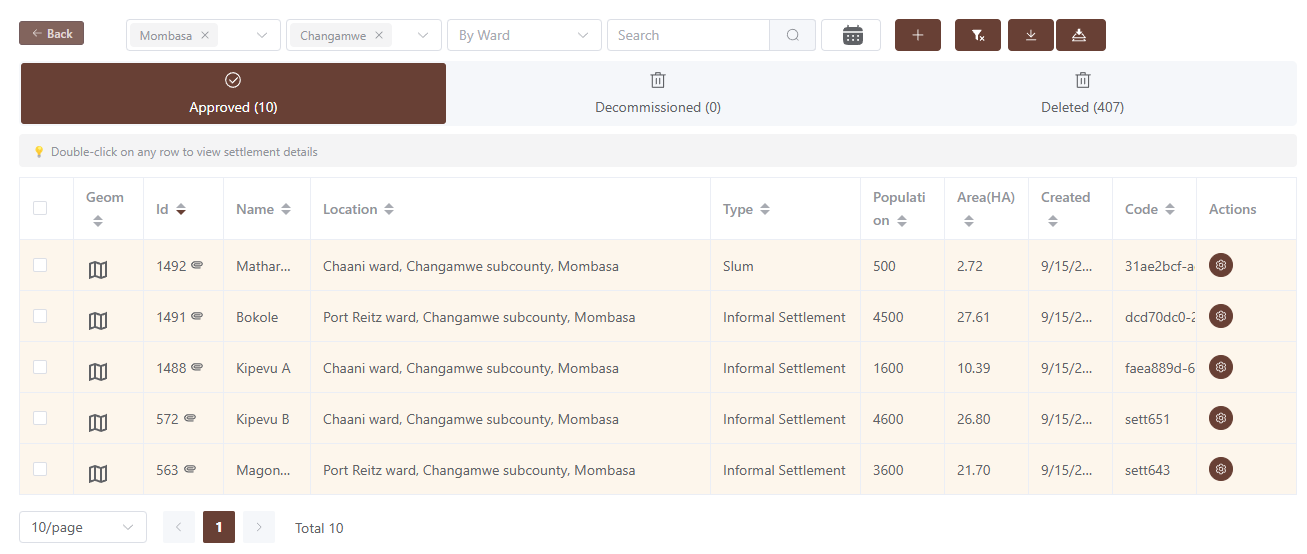
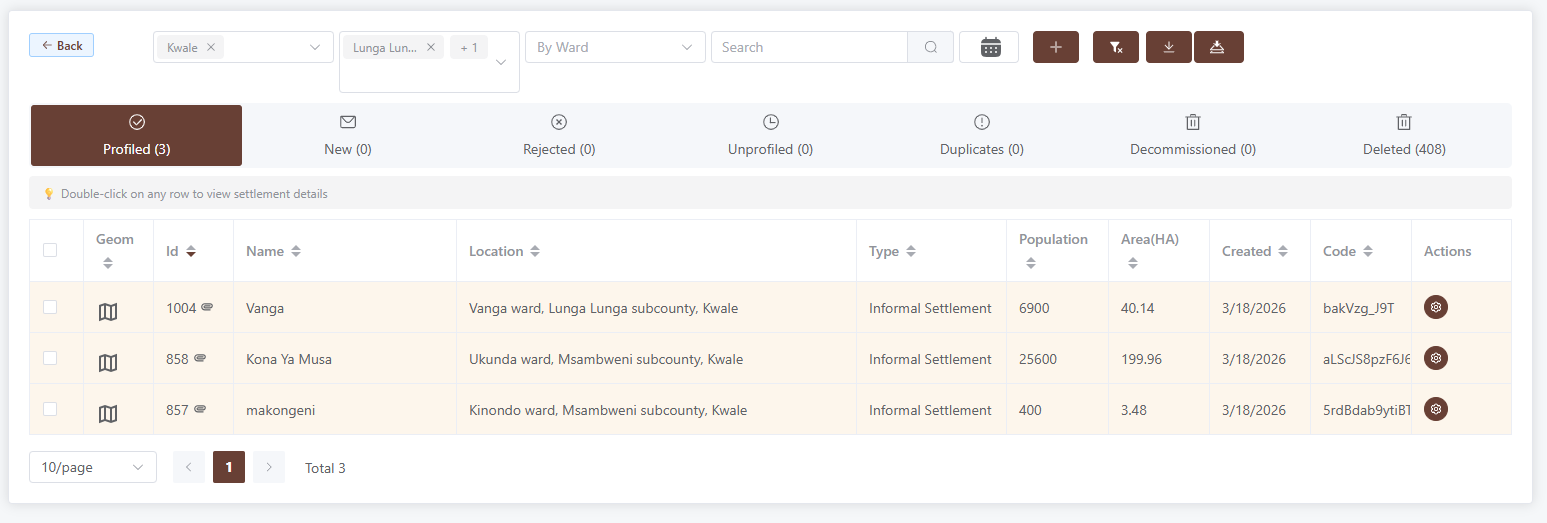
fixes

diff --git a/src/views/Landing/Docs.vue b/src/views/Landing/Docs.vue
@@ -929,9 +929,10 @@ const allNavGroups: NavGroup[] = [
               <h2>Status tabs</h2>
               <p>Settlements are organised into the following tabs based on their lifecycle status:</p>
               <table><thead><tr><th>Tab</th><th>Description</th><th>Who can see it</th></tr></thead><tbody>
-                <tr><td><strong>Approved</strong></td><td>Settlements that have been reviewed and approved. This is the default view.</td><td>All users</td></tr>
+                <tr><td><strong>Profiled</strong></td><td>Settlements that are profiled, qualified, approved and active. This is the default view.</td><td>All users</td></tr>
                 <tr><td><strong>New</strong></td><td>Pending settlements awaiting review and approval.</td><td>National staff, super admins, county admins</td></tr>
                 <tr><td><strong>Rejected</strong></td><td>Settlements that were reviewed and rejected.</td><td>National staff, super admins</td></tr>
+                <tr><td><strong>Unprofiled</strong></td><td>Settlements with a profiling status of <em>NOT_PROFILED</em> or <em>PARTIALLY_PROFILED</em>, regardless of approval status. Shows a badge with the count. Includes a <strong>Profiling Status</strong> column and an info banner reminding staff these records may have incomplete data.</td><td>All users</td></tr>
                 <tr><td><strong>Duplicates</strong></td><td>Potential duplicate records detected by the system, grouped by county.</td><td>National staff, super admins</td></tr>
                 <tr><td><strong>Decommissioned</strong></td><td>Settlements that have been decommissioned (no longer active).</td><td>National staff, super admins, county admins</td></tr>
                 <tr><td><strong>Deleted</strong></td><td>Soft-deleted or merged settlements. Can be restored.</td><td>National staff, super admins, county admins</td></tr>
@@ -1028,7 +1029,7 @@ const allNavGroups: NavGroup[] = [
               <ul>
                 <li>The settlement is saved with a status of <strong>Pending</strong> and assigned a unique code</li>
                 <li>It appears in the <strong>New</strong> tab of the settlement list</li>
-                <li>An administrator must <strong>review and approve</strong> the settlement before it moves to the Approved tab</li>
+                <li>An administrator must <strong>review and approve</strong> the settlement before it moves to the Profiled tab</li>
               </ul>
               <img src="${settlementAdd3SavedImg}" alt="Settlement saved as pending" class="docs-screenshot" />
             `
